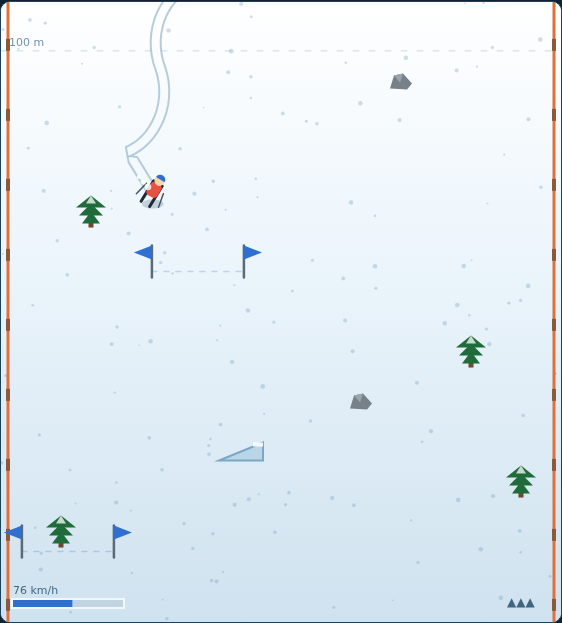
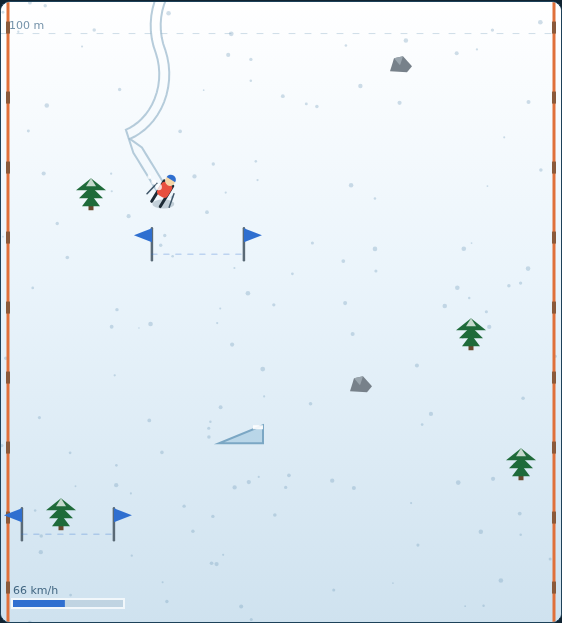
Guarantee a skiable line down the Ski Slalom course
Random placement could wall the piste off with obstacles the skier had no
line through, and a fixed pixel row spacing meant a fast run met twice as
many obstacles per second as a slow one.

Every row now reserves a clear corridor that steps at most one carve
sideways from the row above, with gates placed on the corridor so the
scoring line is always skiable, and rows are spaced in time rather than
pixels so the difficulty ramp stays readable. A scripted pilot following the
corridors now averages about 2.5 km, while ignoring the line still ends a
run inside 500 m.

Also leaves carved tracks in the snow behind the skier, keeps the wipeout
pose on the game over screen, and drops the redundant on-canvas lives glyph.

Claude-Session: https://claude.ai/code/session_01Ps4p9s7nThbz7EYvofUXpz

diff --git a/SkiSlalom/game.js b/SkiSlalom/game.js
@@ -55,13 +55,23 @@ const OBSTACLE = {
 };
 
 // --- Course generation ---------------------------------------------------
+// Rows are spaced in *time*, not pixels: the gap is how far the skier travels
+// in `rowTime` seconds at the current speed cap. That keeps a 420 px/s run from
+// meeting three times as many obstacles a second as a 210 px/s one, while
+// `rowTime` still tightens with distance so the course does get harder.
 const SPAWN_START = 400;      // the first stretch of the run is always clear
 const SPAWN_AHEAD = 820;      // how far below the skier the course is built
-const ROW_GAP_BASE = 130;     // px between rows at the top of the mountain
-const ROW_GAP_MIN = 78;       // px between rows once it is fully wound up
-const ROW_GAP_SHRINK = 0.02;  // px of gap lost per metre descended
+const ROW_TIME_BASE = 0.62;   // seconds between rows at the top of the mountain
+const ROW_TIME_MIN = 0.34;    // seconds between rows once it is fully wound up
+const ROW_TIME_SHRINK = 0.00008; // seconds lost per metre descended
 const GATE_CHANCE = 0.34;
 const CULL_BEHIND = 260;      // px uphill of the skier before objects are dropped
+
+// Every row keeps one corridor clear, and the corridor only ever steps sideways
+// by a carve's worth, so there is always a line down the mountain to find.
+const CLEAR_HALF = 58;        // half-width of the clear corridor
+const CORRIDOR_SHIFT = 130;   // how far the corridor may move between rows
+const CORRIDOR_EDGE = 40;     // keep the corridor off the netting
 
 // --- Run structure -------------------------------------------------------
 const START_LIVES = 3;
@@ -98,6 +108,8 @@ const skier = { x: CANVAS_W / 2, y: 0, angle: 0, speed: 0, air: 0, airTime: 0, i
 // Mutated in place, never reassigned, so the tests can hold on to them.
 const obstacles = [];
 const gates = [];
+// One entry per generated row: the clear line through it.
+const corridors = [];
 
 // Carved tracks left behind in the snow: sampled world points, purely cosmetic.
 const trail = [];
@@ -141,23 +153,54 @@ function addGate(x, y) {
 // Course generation
 // ---------------------------------------------------------------------------
 
+// The speed the hill allows at the current distance, and the row spacing that
+// falls out of it. Both are read by the tests as the difficulty curve.
+function speedCap() {
+    return Math.min(SPEED_CAP_MAX, SPEED_BASE + distance * SPEED_GROWTH);
+}
+
+function rowGap() {
+    const rowTime = Math.max(ROW_TIME_MIN, ROW_TIME_BASE - distance * ROW_TIME_SHRINK);
+    return speedCap() * rowTime;
+}
+
+function nextCorridor(y) {
+    const lo = CORRIDOR_EDGE + CLEAR_HALF;
+    const hi = CANVAS_W - CORRIDOR_EDGE - CLEAR_HALF;
+    const from = corridors.length ? corridors[corridors.length - 1].x : CANVAS_W / 2;
+    const x = clamp(from + (rand() * 2 - 1) * CORRIDOR_SHIFT, lo, hi);
+    const corridor = { x, y };
+    corridors.push(corridor);
+    return corridor;
+}
+
 function spawnRow(y) {
+    const corridor = nextCorridor(y);
+
     if (rand() < GATE_CHANCE) {
-        const margin = GATE_HALF + 26;
-        addGate(margin + rand() * (CANVAS_W - 2 * margin), y);
+        // A gate is the corridor, so the scoring line is always skiable.
+        addGate(corridor.x, y);
         return;
     }
+
     const count = 1 + Math.floor(rand() * 3);
     for (let i = 0; i < count; i++) {
         const roll = rand();
         const type = roll < 0.55 ? 'tree' : roll < 0.85 ? 'rock' : 'ramp';
-        addObstacle(type, 26 + rand() * (CANVAS_W - 52), y + rand() * 26);
+        // Roll positions until one falls outside the corridor; the piste is far
+        // wider than the corridor, so this lands quickly.
+        let x = null;
+        for (let tries = 0; tries < 8 && x === null; tries++) {
+            const candidate = 26 + rand() * (CANVAS_W - 52);
+            if (Math.abs(candidate - corridor.x) >= CLEAR_HALF) x = candidate;
+        }
+        if (x !== null) addObstacle(type, x, y + rand() * 26);
     }
 }
 
 function spawnAhead() {
     if (!spawnEnabled) return;
-    const gap = Math.max(ROW_GAP_MIN, ROW_GAP_BASE - distance * ROW_GAP_SHRINK);
+    const gap = rowGap();
     while (spawnY < skier.y + SPAWN_AHEAD) {
         spawnRow(spawnY);
         spawnY += gap;
@@ -176,6 +219,7 @@ function recordTrail(dt) {
 function cull() {
     const limit = skier.y - CULL_BEHIND;
     while (trail.length && trail[0].y < limit) trail.shift();
+    while (corridors.length > 1 && corridors[0].y < limit) corridors.shift();
     for (let i = obstacles.length - 1; i >= 0; i--) {
         if (obstacles[i].y < limit) obstacles.splice(i, 1);
     }
@@ -294,7 +338,7 @@ function step(dt) {
     // --- Speed -----------------------------------------------------------
     // The target already scales with cos(angle), and the descent is that speed
     // projected onto the fall line, so a hard carve costs downhill pace twice.
-    const cap = Math.min(SPEED_CAP_MAX, SPEED_BASE + distance * SPEED_GROWTH);
+    const cap = speedCap();
     let target = SPEED_MIN + (cap - SPEED_MIN) * Math.cos(skier.angle);
     if (keys.brake && skier.air <= 0) target *= BRAKE_FACTOR;
     const rate = target > skier.speed ? ACCEL : DECEL;
@@ -355,6 +399,7 @@ function startGame() {
 
     obstacles.length = 0;
     gates.length = 0;
+    corridors.length = 0;
     trail.length = 0;
     trailTimer = 0;
 
@@ -618,7 +663,8 @@ function drawSkier() {
     ctx.save();
     ctx.translate(x, y - hop);
 
-    if (state === 'crashing') {
+    if (state === 'crashing' || state === 'over') {
+        // Stay face-down in the snow once the run has ended, too.
         ctx.rotate(crashSpin);
         ctx.strokeStyle = '#d94a3d';
         ctx.lineWidth = 3;
@@ -741,12 +787,6 @@ function draw() {
     drawSkier();
     drawSpeedGauge();
     drawPopup();
-
-    if (state === 'running' || state === 'crashing') {
-        ctx.fillStyle = 'rgba(40, 80, 110, 0.85)';
-        ctx.font = '12px "Segoe UI", system-ui, sans-serif';
-        ctx.fillText(`${'▲'.repeat(Math.max(0, lives))}`, CANVAS_W - 54, CANVAS_H - 16);
-    }
 }
 
 // ---------------------------------------------------------------------------

diff --git a/SkiSlalom/tests/skislalom.spec.js b/SkiSlalom/tests/skislalom.spec.js
@@ -780,6 +780,9 @@ test.describe('Ski Slalom', () => {
                     rngSeed = 4242;
                     obstacles.length = 0;
                     gates.length = 0;
+                    // The corridor chain is course state too: each row steps
+                    // sideways from the one before it.
+                    corridors.length = 0;
                     spawnY = skier.y + 100;
                     for (let i = 0; i < 600; i++) step(1 / 60);
                     return {
@@ -793,23 +796,88 @@ test.describe('Ski Slalom', () => {
             expect(first.obstacles.length + first.gates.length).toBeGreaterThan(0);
         });
 
-        test('the course tightens up the further you go', async ({ page }) => {
-            const density = (startY) =>
-                page.evaluate((y) => {
+        test('rows arrive more often the further you go', async ({ page }) => {
+            // Rows are spaced in time, not pixels: the gap grows with the speed
+            // cap, but not as fast, so the course arrives quicker and quicker.
+            const interval = (metres) =>
+                page.evaluate((d) => {
                     startGame();
-                    rngSeed = 2024;
-                    spawnEnabled = true;
-                    skier.y = y;
-                    obstacles.length = 0;
-                    gates.length = 0;
-                    spawnY = y;
-                    step(1 / 60);
-                    const span = Math.max(...obstacles.map((o) => o.y), ...gates.map((g) => g.y)) - y;
-                    return (obstacles.length + gates.length) / span;
-                }, startY);
-            const early = await density(0);
-            const late = await density(40000);
-            expect(late).toBeGreaterThan(early);
+                    distance = d;
+                    return rowGap() / speedCap();
+                }, metres);
+            const early = await interval(0);
+            const late = await interval(3000);
+            expect(late).toBeLessThan(early);
+            expect(late).toBeGreaterThan(0.2);
+        });
+
+        test('the run speeds up faster than the rows bunch up', async ({ page }) => {
+            // A sanity floor on the difficulty ramp: the mountain must stay
+            // skiable rather than becoming a wall of obstacles.
+            const gap = (metres) =>
+                page.evaluate((d) => {
+                    startGame();
+                    distance = d;
+                    return rowGap();
+                }, metres);
+            expect(await gap(3000)).toBeGreaterThan(await gap(0));
+        });
+
+        test('every obstacle row leaves a clear corridor', async ({ page }) => {
+            const { clear, CLEAR_HALF, SKIER_HW } = await page.evaluate(() => {
+                startGame();
+                rngSeed = 777;
+                obstacles.length = 0;
+                gates.length = 0;
+                corridors.length = 0;
+                spawnY = skier.y + 100;
+                for (let i = 0; i < 3000; i++) step(1 / 60);
+                const bad = [];
+                for (const c of corridors) {
+                    for (const o of obstacles) {
+                        if (Math.abs(o.y - c.y) > 30) continue;
+                        if (Math.abs(o.x - c.x) < CLEAR_HALF) bad.push([o.type, o.x, c.x]);
+                    }
+                }
+                return { clear: bad, CLEAR_HALF, SKIER_HW };
+            });
+            // The corridor has to be wide enough to actually ski down.
+            expect(CLEAR_HALF).toBeGreaterThan(SKIER_HW * 2);
+            expect(clear).toEqual([]);
+        });
+
+        test('consecutive corridors stay within a carve of each other', async ({ page }) => {
+            const worst = await page.evaluate(() => {
+                startGame();
+                rngSeed = 31337;
+                corridors.length = 0;
+                spawnY = skier.y + 100;
+                for (let i = 0; i < 3000; i++) step(1 / 60);
+                let max = 0;
+                for (let i = 1; i < corridors.length; i++) {
+                    max = Math.max(max, Math.abs(corridors[i].x - corridors[i - 1].x));
+                }
+                return { max, shift: CORRIDOR_SHIFT, rows: corridors.length };
+            });
+            expect(worst.rows).toBeGreaterThan(3);
+            expect(worst.max).toBeLessThanOrEqual(worst.shift + 0.001);
+        });
+
+        test('gates sit on the corridor, so they can always be reached', async ({ page }) => {
+            const offsets = await page.evaluate(() => {
+                startGame();
+                rngSeed = 5150;
+                gates.length = 0;
+                corridors.length = 0;
+                spawnY = skier.y + 100;
+                for (let i = 0; i < 3000; i++) step(1 / 60);
+                return gates.map((g) => {
+                    const c = corridors.find((c) => Math.abs(c.y - g.y) < 1);
+                    return c ? Math.abs(c.x - g.x) : 999;
+                });
+            });
+            expect(offsets.length).toBeGreaterThan(0);
+            expect(Math.max(...offsets)).toBeLessThan(1);
         });
     });
 

diff --git a/SkiSlalom/DESIGN.md b/SkiSlalom/DESIGN.md
@@ -120,19 +120,41 @@ flashes while invulnerable.
 The course is generated ahead of the skier from a seeded LCG (`rand()`), so a
 test can pin `rngSeed` and get the same mountain every time. A `spawnY` frontier
 walks downhill while it is closer than `SPAWN_AHEAD` (820 px) to the skier,
-emitting one row each step and then advancing by
+emitting one row each step and then advancing by `rowGap()`.
+
+**Rows are spaced in time, not in pixels.** A fixed pixel gap would mean a
+420 px/s run meets twice as many obstacles a second as a 210 px/s one, and the
+difficulty curve would run away from the player. Instead the gap is how far the
+skier covers in `rowTime` seconds at the current cap:
 
 ```
-rowGap = max(ROW_GAP_MIN, ROW_GAP_BASE - distance * ROW_GAP_SHRINK)
+rowTime = max(ROW_TIME_MIN, ROW_TIME_BASE - distance * ROW_TIME_SHRINK)
+rowGap  = speedCap() * rowTime
 ```
 
-(130 px thinning to 78 px), which is the second difficulty ramp alongside speed.
-A row is a gate with probability `GATE_CHANCE` (0.34) or otherwise one to three
-obstacles rolled as 55% tree, 30% rock, 15% ramp at random piste positions. The
-first `SPAWN_START` (400 px) of the run is left empty so the start is never
+so rows still arrive faster the further you go (0.62 s apart at the top, 0.34 s
+at the bottom of the curve) while the spacing on the ground grows with speed.
+
+**Every row keeps a corridor clear.** Random placement can wall the piste off
+with three trees the skier has no line through, so each row first picks a
+corridor: `CLEAR_HALF` (58 px) either side of a point that steps at most
+`CORRIDOR_SHIFT` (130 px) from the previous row's corridor and stays
+`CORRIDOR_EDGE` (40 px) off the netting. A row is then either a gate — placed
+*on* the corridor, so the scoring line is always skiable — with probability
+`GATE_CHANCE` (0.34), or one to three obstacles (55% tree, 30% rock, 15% ramp)
+rolled at random piste positions and rejected while they fall inside the
+corridor. The corridors live in their own array so the tests can assert the
+invariant directly: there is always a line down the mountain, and the challenge
+is reading it in time rather than being handed an unwinnable row.
+
+The first `SPAWN_START` (400 px) of the run is left empty so the start is never
 unfair, and everything more than `CULL_BEHIND` (260 px) uphill of the skier is
 dropped. Setting `spawnEnabled = false` freezes generation, which is how the
 tests get a bare mountain to place single objects on.
+
+A scripted pilot that simply follows the corridors averages about 2.5 km a run;
+a pilot that ignores the line and chases gates, or does nothing at all, is out
+inside 500 m. That gap is the game.
 
 ## Controls
 
@@ -159,6 +181,8 @@ animation.
 | `state` | `'idle' \| 'running' \| 'paused' \| 'crashing' \| 'over'` |
 | `skier` | `{ x, y, angle, speed, air, airTime, invuln }` |
 | `obstacles`, `gates` | live world objects, culled behind the skier |
+| `corridors` | the clear line through each generated row |
+| `speedCap()`, `rowGap()` | the difficulty curve, in px/s and px |
 | `score`, `best`, `lives`, `combo`, `distance` | run state, `best` in `localStorage` |
 | `step(dt)` | the whole simulation: input → motion → spawn → collide → cull → HUD |
 | `draw()` | pure rendering, reads state only |

diff --git a/SkiSlalom/README.md b/SkiSlalom/README.md
@@ -40,9 +40,15 @@ each one costs a life, and you have three. `Space` hops you over rocks, but a
 tree is far too tall to clear. Ramps fling you into a long flight worth 120
 points a second of air time, and you can steer (slowly) while you are up there.
 
-**It gets faster.** The speed cap climbs steadily with every metre descended,
-and the course rows tighten from 130 px apart to 78 px. What is a comfortable
-line at 200 m is a very busy one at 2000 m.
+**There is always a line.** Every row of the course keeps one corridor clear,
+and that corridor never jumps further sideways than a carve can carry you — so
+no row is unwinnable. Gates are placed on the corridor, which is why chasing
+the flags and skiing the safe line are the same thing. The difficulty is
+spotting it in time.
+
+**It gets faster.** The speed cap climbs with every metre descended, from 210 to
+420 px/s, and rows go from arriving every 0.62 s to every 0.34 s. What is a
+comfortable line at 200 m is a very busy one at 2000 m.
 
 **Scoring.**
 
